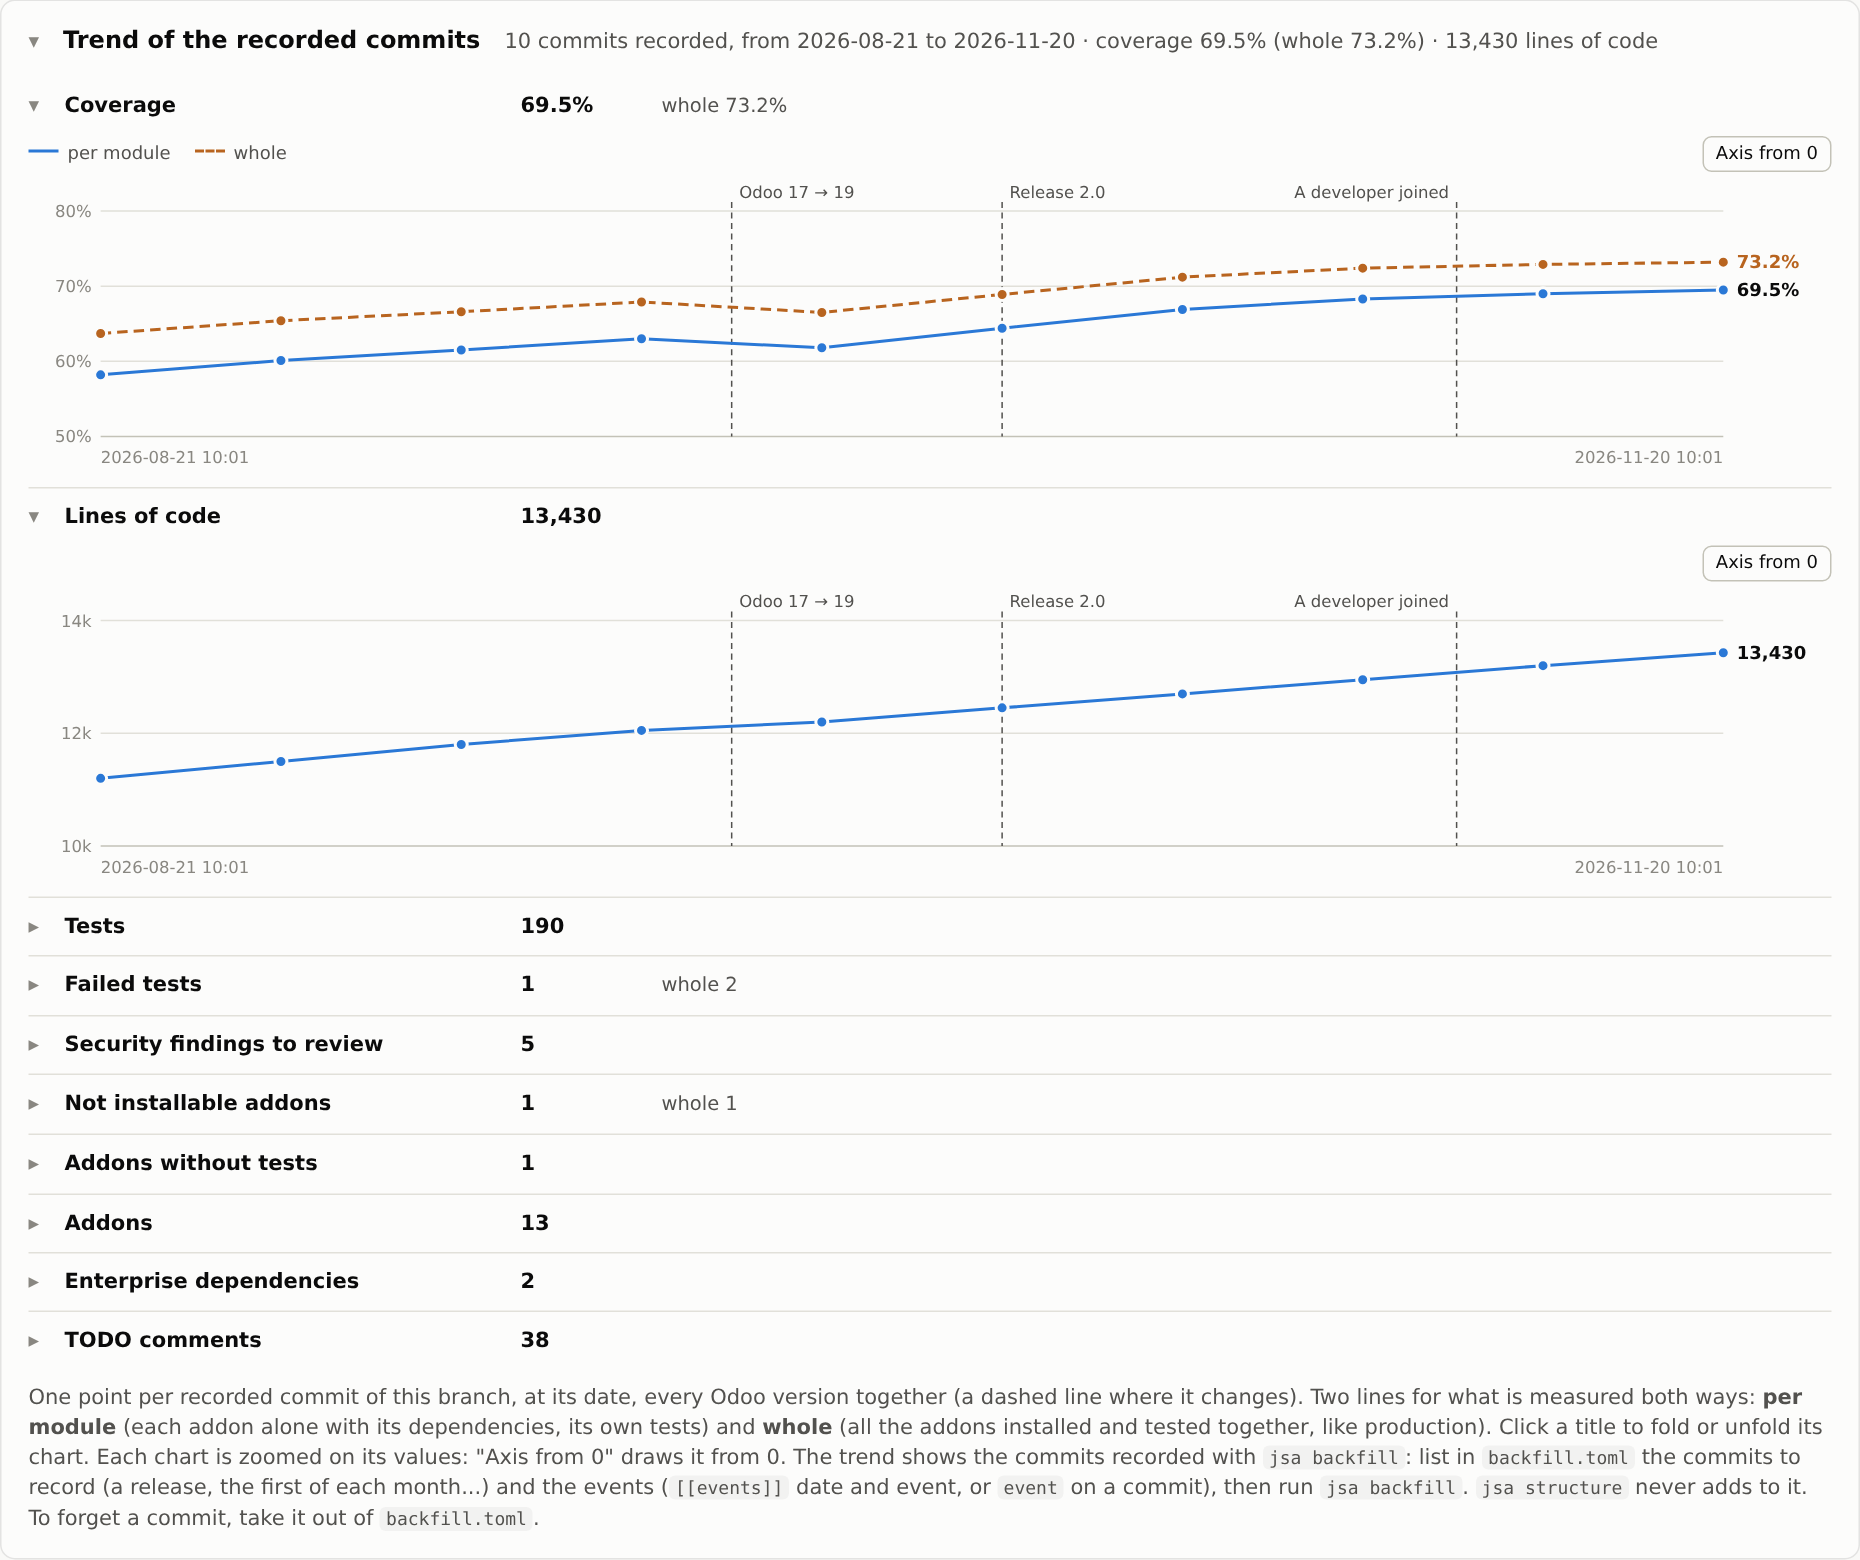
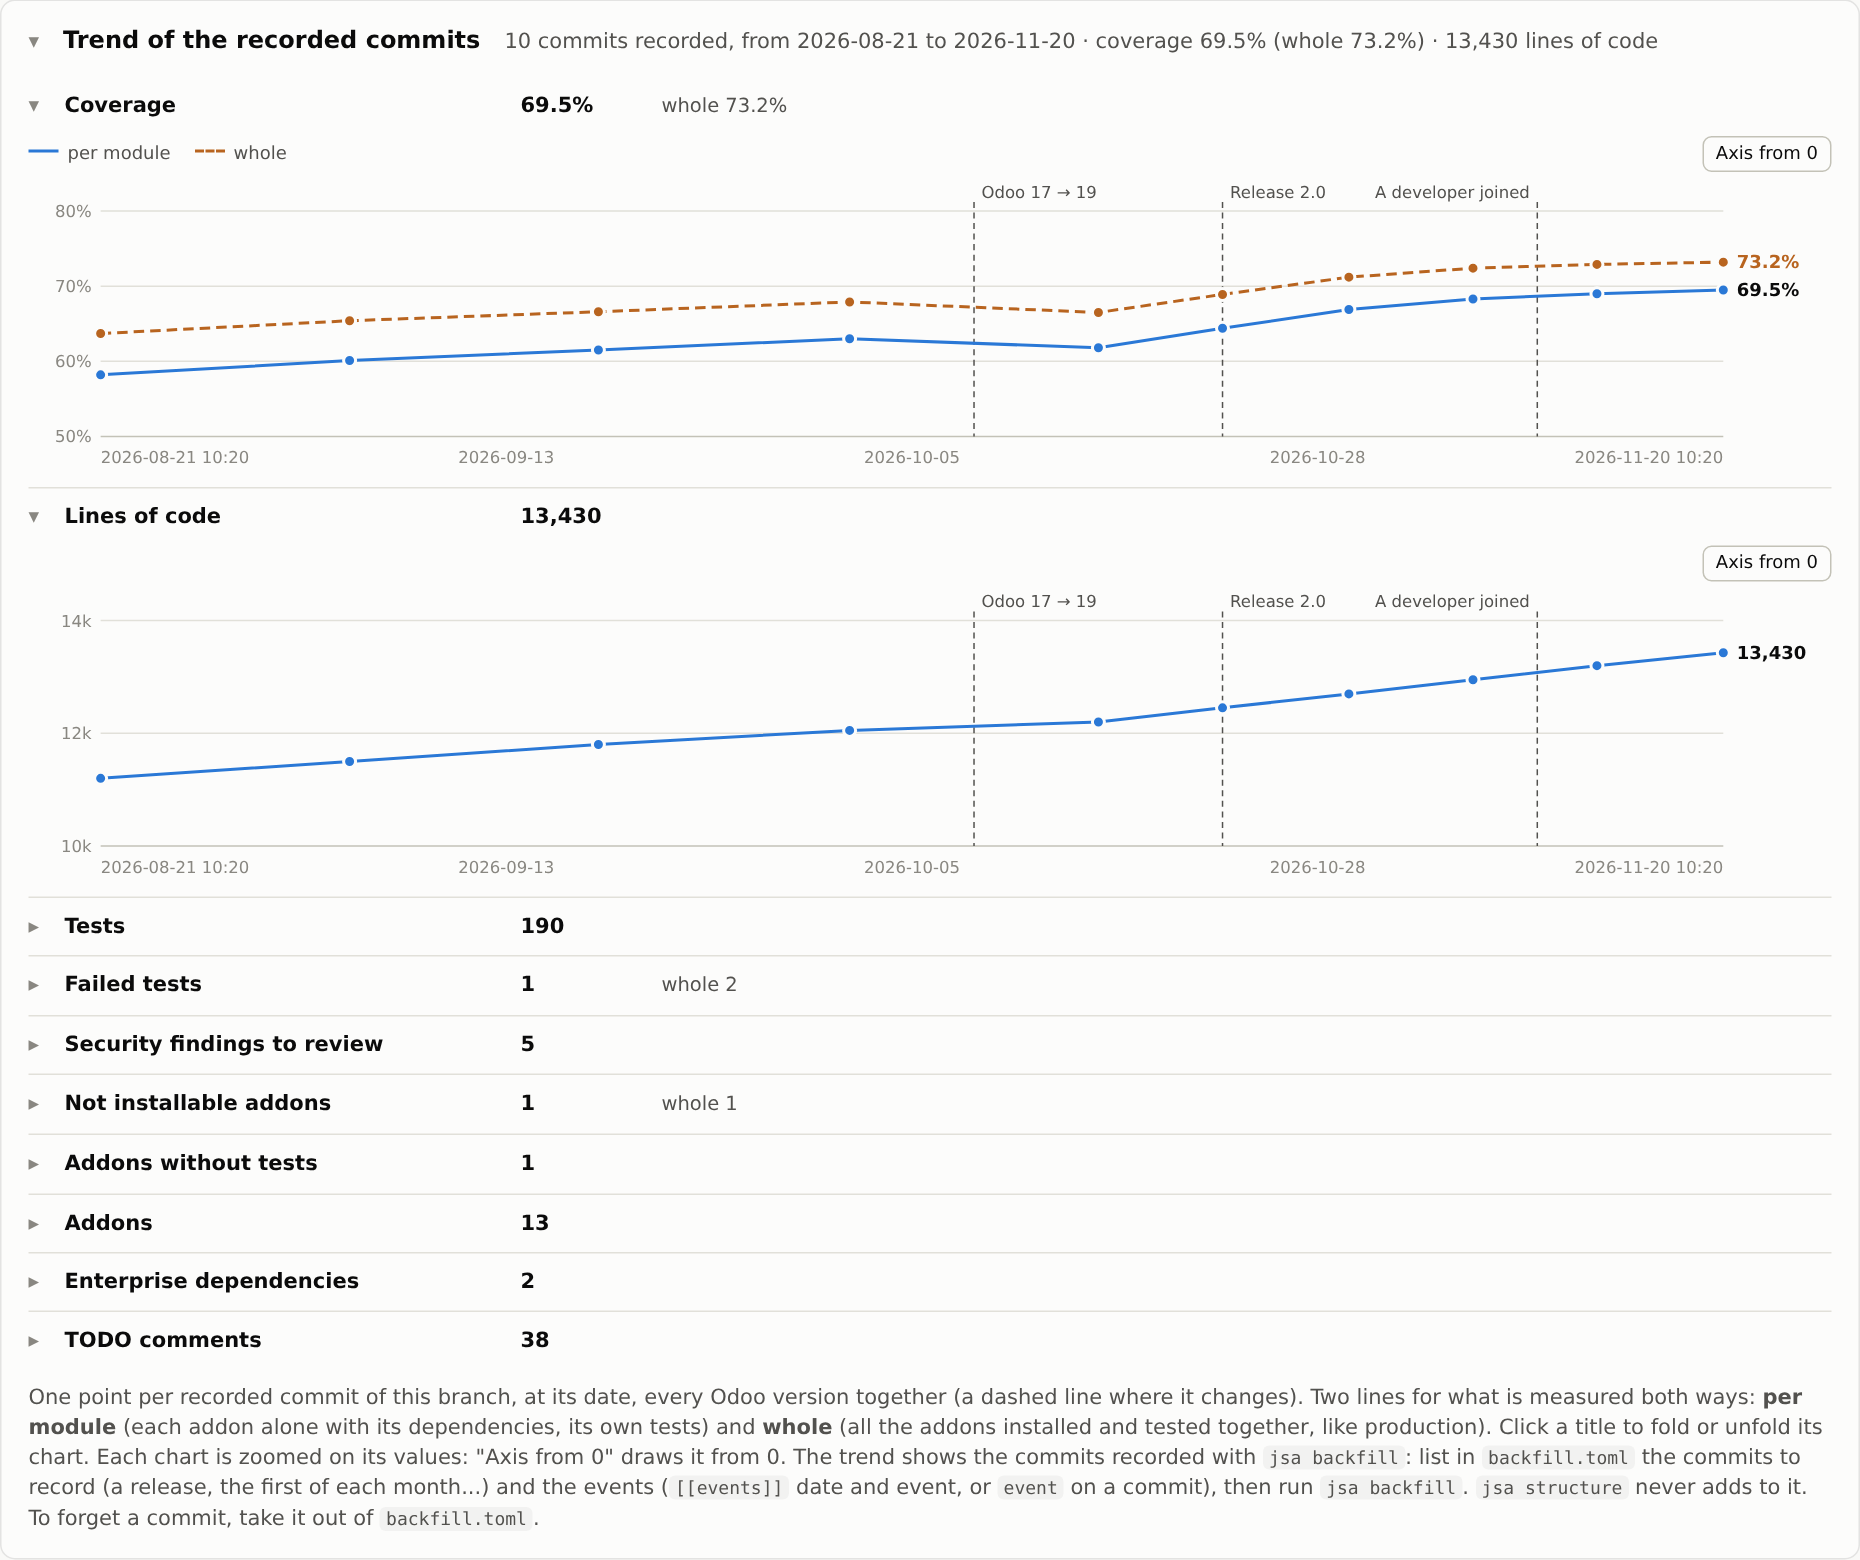
report: the x axis of the trend at scale, each commit at its date
A month without a recorded commit is now a gap; events at their date; three dates
written along the axis when the commits span 4 days or more. All on one date: one
step per commit, as before. 0.41.0.

diff --git a/jsa/structure/report_html.py b/jsa/structure/report_html.py
@@ -830,7 +830,8 @@ LINES = ("per module", "whole")  # the two lines of a chart measured both ways
 
 
 def line_chart(title: str, points: list[tuple], unit: str = "", y_max: Optional[float] = None,
-               zoom: bool = False, events: list[tuple[float, str]] = (), css: str = "", names: tuple = ()) -> str:
+               zoom: bool = False, events: list[tuple[float, str]] = (), css: str = "", names: tuple = (),
+               xs: Optional[list[float]] = None, dates: list[tuple[float, str]] = ()) -> str:
     """Line chart of a measure over the runs (the section around it names it). points: (label, value[, tooltip]).
     With `names`, several lines: the value of a point is then a tuple, one value per line (None: that run did not
     measure it, the line goes straight to its next point); the second line is dashed (the legend is the section's).
@@ -838,7 +839,8 @@ def line_chart(title: str, points: list[tuple], unit: str = "", y_max: Optional[
     value of each line is labeled. zoom: the axis covers the values instead of starting at 0 (+2% on 80,000 lines of
     code would look flat). events: (position on the x axis, counted in runs; what happened), drawn as dashed vertical
     lines. As wide as the page's sections (1200 = their width on a large screen: the text keeps its size there).
-    css: more classes of the <svg>."""
+    css: more classes of the <svg>. xs: where each point is, counted in runs like the events (at scale: its date; by
+    default one step per point); dates: (position, label) written on the x axis between the first and the last."""
     width, height, left, right, top, bottom = 1200, 200, 48, 72, 26, 24
     lines = [[p[1][n] for p in points] for n in range(len(names))] if names else [[p[1] for p in points]]
     values = [v for line in lines for v in line if v is not None]
@@ -848,7 +850,8 @@ def line_chart(title: str, points: list[tuple], unit: str = "", y_max: Optional[
     else:
         low, high = 0, y_max or max(1, *values)
         ticks = [0, high / 2, high] if unit or high % 2 == 0 else [0, high]  # no half tick for counts
-    x = lambda i: left + i * (width - left - right) / max(len(points) - 1, 1)
+    at = lambda position: left + position * (width - left - right) / max(len(points) - 1, 1)
+    x = lambda i: at(xs[i] if xs else i)
     y = lambda v: top + (1 - (v - low) / (high - low)) * (height - top - bottom)
     out = [f'<svg class="chart{" " + css if css else ""}" viewBox="0 0 {width} {height}" width="{width}" role="img" '
            f'aria-label="{E(title)}">']
@@ -856,12 +859,14 @@ def line_chart(title: str, points: list[tuple], unit: str = "", y_max: Optional[
         css = "axisline" if tick == ticks[0] else "gridline"
         out.append(f'<line class="{css}" x1="{left}" x2="{width - right}" y1="{y(tick):.1f}" y2="{y(tick):.1f}"/>'
                    f'<text x="{left - 6}" y="{y(tick) + 4:.1f}" text-anchor="end">{axis_number(tick)}{unit}</text>')
+    for position, label in dates:
+        out.append(f'<text class="date" x="{at(position):.1f}" y="{height - 6}" text-anchor="middle">{E(label)}</text>')
     for position, text in events:
         if 0 <= position <= len(points) - 1:
-            at, near_end = x(position), x(position) > left + 0.7 * (width - left - right)
+            here, near_end = at(position), at(position) > left + 0.7 * (width - left - right)
             short = text if len(text) <= 40 else text[:39] + "…"
-            out.append(f'<g class="event"><title>{E(text)}</title><line x1="{at:.1f}" x2="{at:.1f}" y1="{top - 6}" '
-                       f'y2="{height - bottom}"/><text x="{at + (-5 if near_end else 5):.1f}" y="{top - 9}" '
+            out.append(f'<g class="event"><title>{E(text)}</title><line x1="{here:.1f}" x2="{here:.1f}" y1="{top - 6}" '
+                       f'y2="{height - bottom}"/><text x="{here + (-5 if near_end else 5):.1f}" y="{top - 9}" '
                        f'text-anchor="{"end" if near_end else "start"}">{E(short)}</text></g>')
     lasts = []  # (line, x, y, text) of the last value of each line
     for n, line in enumerate(lines):
@@ -954,9 +959,21 @@ def _trend_section(key: str, title: str, unit: str, is_open: bool, runs: list[di
         f" (measured {str(r['date'])[:10]})" if r.get('code_date') and r.get('date') and str(r['code_date'])[:10] != str(r['date'])[:10] else "") + (
         f" · {detail(r)}" if detail and detail(r) else "")
     dates = [code_date(r) for r, _ in points]
-    marks = event_positions(dates, list(events) + version_changes([r for r, _ in points])) if all(dates) else []
+    happened = list(events) + version_changes([r for r, _ in points])
+    span = (dates[-1] - dates[0]).total_seconds() if all(dates) else 0
+    if span:  # at scale (the user, 2026-11-27): each commit at its date, counted in runs like the events
+        place = lambda when: (when - dates[0]).total_seconds() / span * (len(points) - 1)
+        xs = [place(when) for when in dates]
+        marks = [(place(when), str(e['event'])) for e in happened
+                 if (when := report.parse_date(e['date'])) and dates[0] <= when <= dates[-1]]
+        quarters = [dates[0] + (dates[-1] - dates[0]) * k / 4 for k in (1, 2, 3)]
+        # written when 4 days or more apart: a day between each, no date twice nor the one of the first or last point
+        ticks = [(place(when), when.strftime('%Y-%m-%d')) for when in quarters] if span >= 4 * 86400 else []
+    else:  # no dates, or all the same: one step per commit
+        xs, ticks = None, []
+        marks = event_positions(dates, happened) if all(dates) else []
     chart = lambda zoom: line_chart(title, [(label(r), v, tip(r)) for r, v in points], unit, 100 if unit == "%" else None,
-                                    zoom, marks, "zoomed" if zoom else "full", names)
+                                    zoom, marks, "zoomed" if zoom else "full", names, xs, ticks)
     legend = ('<span class="lines">' + "".join(f'<span><i{f" class={chr(34)}l{n}{chr(34)}" if n else ""}></i>{E(name)}</span>'
                                                for n, name in enumerate(names)) + '</span>') if names else ""
     return (head + f'</summary><div class="axisbar">{legend}<button type="button" class="axis" title="The axis of this chart '

diff --git a/tests/test_structure.py b/tests/test_structure.py
@@ -557,3 +557,18 @@ def test_the_table_says_the_tests_in_one_column():
     assert '<span class="tag">new</span>none' in table and "◆" not in table
     ranks = [int(part.split('"')[1]) for part in table.split('data-tests=')[1:]]
     assert ranks == sorted(ranks)  # not installable, failing (most failures first), no tests, passing
+
+
+def test_the_x_axis_is_at_scale():
+    runs = [_run(1, 60.0, 12000), _run(2, 61.0, 12100), _run(11, 62.0, 12200)]  # one day apart, then nine
+    page = report_html._trend(runs, [{"date": "2026-10-06T10:00:00", "event": "Release 2.0"}])
+    loc = page[page.index('data-chart="loc"'):page.index('data-chart="tests"')]
+    xs = [float(p.split(",")[0]) for p in loc.split('<polyline points="')[1].split('"')[0].split()]
+    assert xs == [48.0, 156.0, 1128.0]  # 1 day of 10 = 108 px of 1080: each commit at its date
+    event = float(loc.split('<g class="event">')[1].split('x1="')[1].split('"')[0])
+    assert event == 588.0  # the 6th: half way between the 1st and the 11th
+    assert '<text class="date" x="318.0"' in loc and ">2026-10-03<" in loc  # dates written along the axis
+    same = report_html._trend([_run(1, 60.0, 12000), _run(1, 61.0, 12100)])  # the same date: one step per commit
+    assert '<polyline points="48.0,' in same and "1128.0," in same and 'class="date"' not in same
+    near = report_html._trend([_run(1, 60.0, 12000), _run(3, 61.0, 12100)])  # 2 days: no date between them
+    assert 'class="date"' not in near and '<polyline points="48.0,' in near

diff --git a/docs/guide.md b/docs/guide.md
@@ -197,7 +197,8 @@ it holds and what changed: a click opens one), then the table of the addons and 
   dependencies, your own measures), each titled with its last value. Coverage, failed tests and addons not
   installable have two lines: per module, and whole (dashed). Each chart is zoomed on its values (coverage going from
   80% to 82% shows); its button "Axis from 0" draws it from 0 instead. Each point is a commit recorded with
-  `jsa backfill` (below), placed at its date; only the commits of your current branch are drawn (the others are
+  `jsa backfill` (below), placed at its date: the x axis is at scale, a month without a recorded commit is a
+  gap, a few dates are written along it; only the commits of your current branch are drawn (the others are
   counted in the summary). Under the title, in small: the branch, the commit and its date of the code measured.
 
 **The history: recording commits.** The trend draws the commits recorded with `jsa backfill`, and only them:
